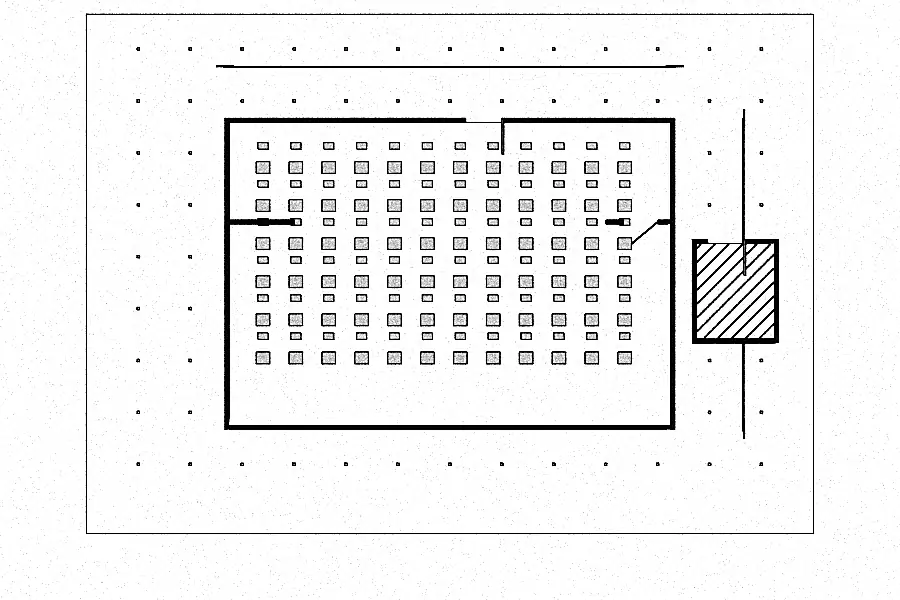
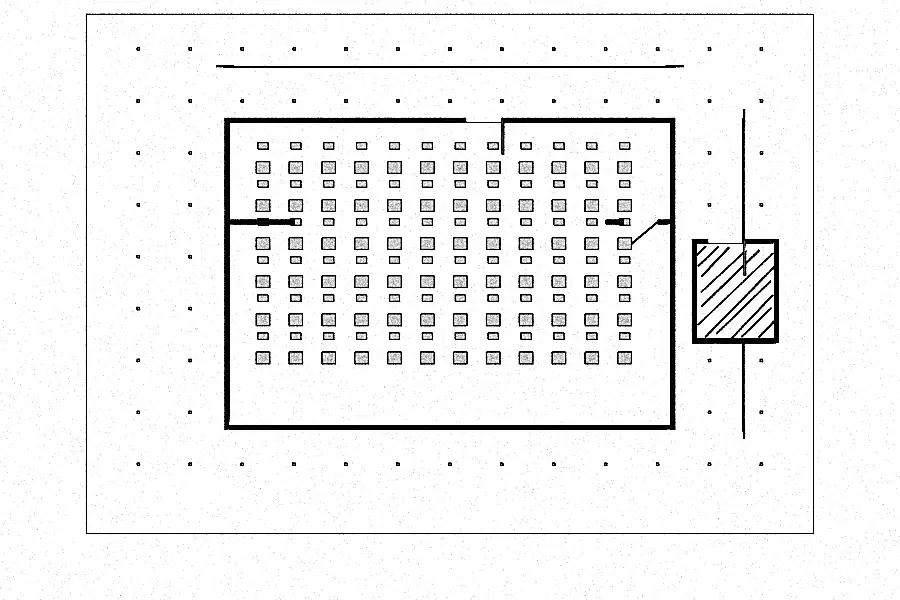
r368: campus hatching, lighter admin poche, hatch jitter

diff --git a/scripts/art/blender/plate.py b/scripts/art/blender/plate.py
@@ -85,19 +85,19 @@ def grid(x0,x1,y0,y1,st=3):
     for gx in range(int(x0),int(x1)+1,st):
         for gy in range(int(y0),int(y1)+1,st): box(gx-.08,gx+.08,gy-.08,gy+.08,0,.03,dk)
 
-def rbox(cx,cy,ln,ang,th=.07,m=None):  # thin rotated bar (hatching, door swing), sits above the floor slab
+def rbox(cx,cy,ln,ang,th=.07,m=None,z=.16):  # thin rotated bar (hatching, door swing), sits above the floor slab
     bpy.ops.mesh.primitive_cube_add(); o=bpy.context.object
-    o.location=(cx,cy,.16); o.scale=(ln/2,th/2,.03); o.rotation_euler=(0,0,math.radians(ang)); o.data.materials.append(m or dk)
-def hatch(x0,y0,x1,y1,st=.8,ang=45):  # 45-degree hatching, each line clipped to the rectangle
-    c=(x0-y1); 
+    o.location=(cx,cy,z); o.scale=(ln/2,th/2,.03); o.rotation_euler=(0,0,math.radians(ang)); o.data.materials.append(m or dk)
+def hatch(x0,y0,x1,y1,st=.8,ang=45,z=.16):  # hand-drawn feel: spacing, angle, weight and length jitter; each line clipped to the rectangle
+    c=(x0-y1)
     while c<=x1-y0:
         pts=[]
         for (x,y) in ((c+y0,y0),(c+y1,y1),(x0,x0-c),(x1,x1-c)):
             if x0-1e-6<=x<=x1+1e-6 and y0-1e-6<=y<=y1+1e-6: pts.append((x,y))
         if len(pts)>=2:
-            (ax,ay),(bx,by)=pts[0],pts[-1]; ln=math.hypot(bx-ax,by-ay)
-            if ln>.2: rbox((ax+bx)/2,(ay+by)/2,ln,45,.05)
-        c+=st
+            (ax,ay),(bx,by)=pts[0],pts[-1]; ln=math.hypot(bx-ax,by-ay)*random.uniform(.82,1.0)
+            if ln>.2: rbox((ax+bx)/2+random.uniform(-.1,.1),(ay+by)/2+random.uniform(-.1,.1),ln,ang+random.uniform(-2.2,2.2),random.uniform(.03,.07),z=z)
+        c+=st*random.uniform(.75,1.3)
 def swing(x,y,ln=2.1,ang=40):
     rbox(x+ln*.5*math.cos(math.radians(ang)),y+ln*.5*math.sin(math.radians(ang)),ln,ang,.06)
 def chairs(x0,x1,y,n):  # small chairs either side of a table run
@@ -114,11 +114,11 @@ if FLAT:
         hatch(-18.7,-1.7,-14.3,3.7); swing(-12,-3)
     if kind=='admin':
         for i in range(5): box(-13.2,-12.6,-5.6+i*2.2,-5.0+i*2.2,0,.15,dk); box(-4.6,-4.0,-5.6+i*2.2,-5.0+i*2.2,0,.15,dk)
-        hatch(1.4,-7.6,15.6,-1.4); hatch(1.4,1.4,15.6,7.6); swing(-13,0)
+        hatch(1.4,-7.6,15.6,-1.4,1.5); hatch(1.4,1.4,15.6,7.6,1.5); swing(-13,0)
     if kind=='lab':
         hatch(-19.7,-2.7,-14.3,2.7); swing(-11,-1); swing(11,-1,ang=140)
     if kind=='campus':
-        for (x,y,w,d,h) in [(-18,-12,12,8,3.2),(-2,-12,8,12,4.6),(10,-12,10,8,2.8)]: hatch(x+.5,y+.5,x+w-.5,y+d-.5,1.2)
+        for (x,y,w,d,h) in [(-18,-12,12,8,3.2),(-2,-12,8,12,4.6),(10,-12,10,8,2.8),(-18,2,9,10,2.4),(-6,6,14,8,3.6),(12,2,8,12,5.4)]: hatch(x+1.2,y+1.2,x+w-1.2,y+d-1.2,1.1,z=h+.3)
 if kind=='lecture': dim(-14,-12,14,-12); dim(-17,-9,-17,9); grid(-18,18,-13,13)
 if kind=='library': dim(-15,-13,15,-13); dim(-23,-10,-23,10); grid(-18,18,-13,13)
 if kind=='exam': dim(-13,-12,13,-12); dim(-17,-9,-17,9); grid(-18,18,-13,13)

diff --git a/docs/redesign/r368/LEDGER.md b/docs/redesign/r368/LEDGER.md
@@ -165,3 +165,4 @@ NEXT: origin/main sync ~9:50pm; remaining gaps 06 layout, hero photo look, no-co
 - r368 no-corpus pass (404, login, about, desktop light): ruled frame, mono labels, royal accents consistent with matched slices; no corpus to measure so status stays FAILING (unverified vs reference). Mobile hero raster verified dark. NEXT: hourly sync, cross-slice analyze.
 - r368 cross-slice analyze (12:04 AM): 06 gets a third plate; 404/about keep the duotone photo (reference shows photo scenes in the use-case band, so no evidence to swap). 07 plate richness still open. All 22 FAILING.
 - r368 plates v3: clipped 45-degree poche hatching, chairs, door swings in plate.py flat mode. NEXT: sync, analyze.
+- r368 plates v4: campus hatch on all blocks, lighter admin poche, jittered hand-drawn hatching.
